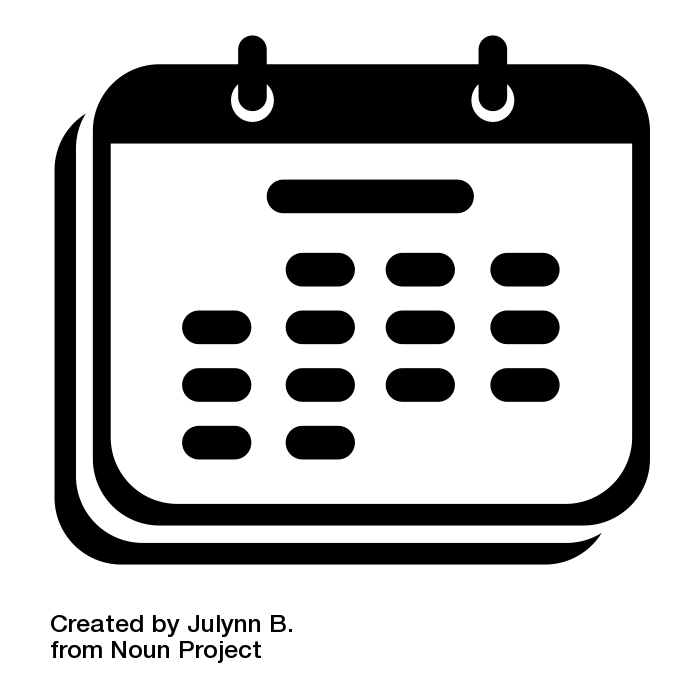
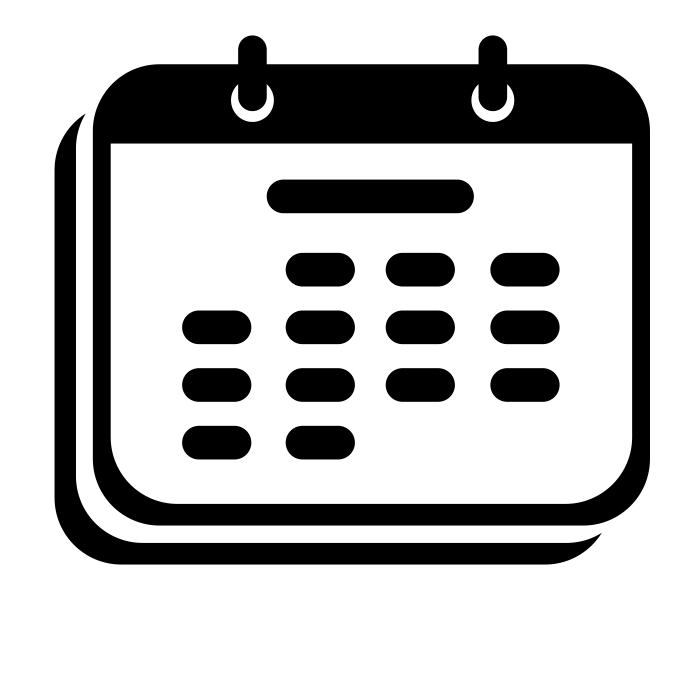
Picto without promotion

Changed region(s): [[0.06, 0.87, 0.42, 0.96]]

diff --git a/index.html b/index.html
@@ -3,45 +3,46 @@
 
 	<head>
 		<title>	AnneSo&Matt Wedding</title>
-
 		<meta charset="utf-8">
+		<link type ="text/css" href="stylesheet.css" rel="stylesheet">
 	</head>
 
 	<body>
-		<div id="Header"></div>
+		<div id="header">
 			<h1>Anne-So & Matt </h1>
 			<p>23 juin 2017</p>
+		</div>
 
-		<div id="navbar"></div>
+		<div id="navbar">
 			<ul>
-				<li>Agenda</li>
-				<img src="calendar.png"alt="Agenda">
+				<li><img src="Pictos et icones/calendar.png"alt="Agenda" width="100"></li>
 				<p>Le programme</p>
 
-				<li>Plan d'accès</li>
-				<img src="Map.png"alt="Plan d'accès">
+				<li><img src="Pictos et icones/Map.png"alt="Plan d'accès" width="100"></li>
 				<p>Comment venir?</p>
 
 
-				<li>Hébergement</li>
-				<img src="Sleep.png"alt="Hébergement">
+				<li><img src="Pictos et icones/Sleep.png"alt="Hébergement" width="100"></li>
 				<p>Où loger?</p>
 
 
-				<li>Liste de mariage</li>
-				<img src="gift box.png"alt="Liste de mariage">
+				<li><img src="Pictos et icones/gift box.png"alt="Liste de mariage" width="100"></li>
 				<p>Faire plaisir?</p>
 
 
 
-				<li>Contact</li>
-				<img src="Discuss.png"alt="Contact">
+				<li><img src="Pictos et icones/Discuss.png"alt="Contact" width="100"></li>
 				<p>Nous contacter</p>
 
 			</ul>
+		</div>
+
 		<div id="footer">
 			<p>©MLB Website</p>
+			<p>#Happy to celebrate with you</p>
 		</div>
+
+
 		<h1></h1>
 		<p></p>
 	</body>

diff --git a/stylesheet.css b/stylesheet.css
@@ -1,0 +1,5 @@
+#header h1{
+	font-family: serif;
+	text-align: center;
+	font-size-adjust: 23;
+}
